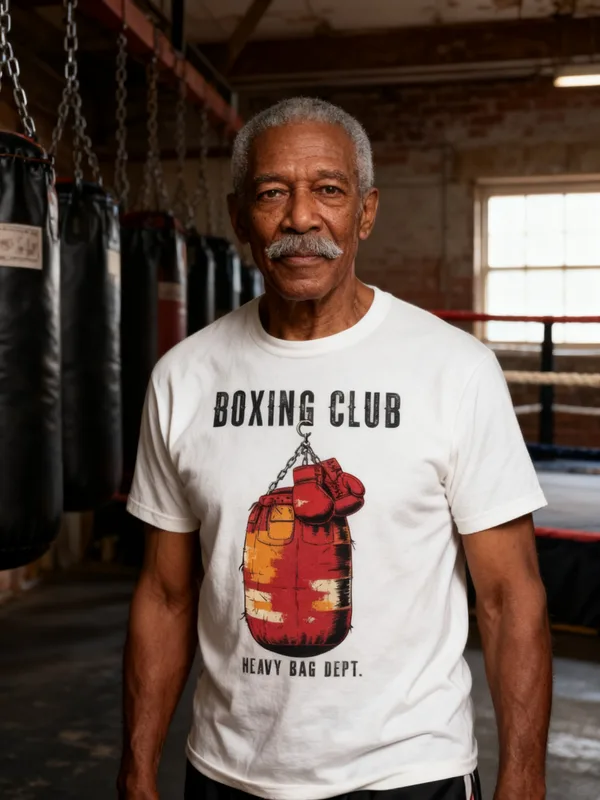
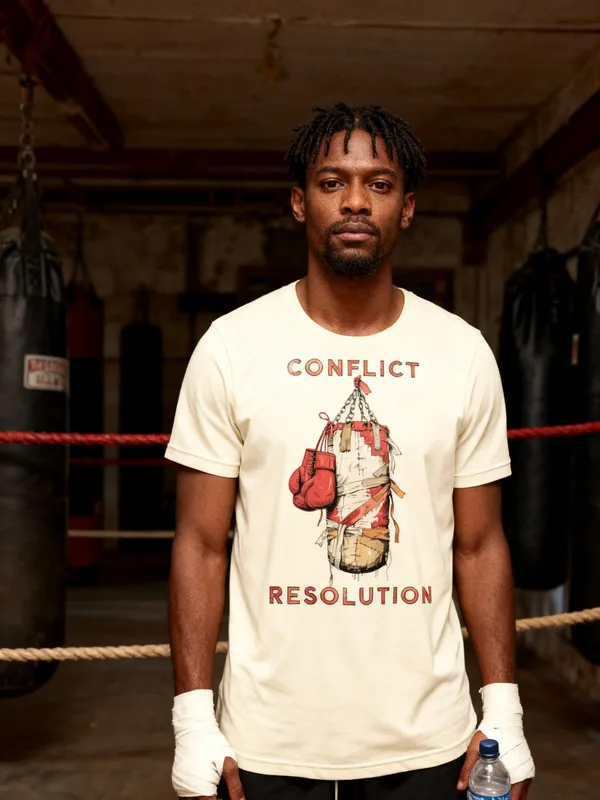
[B] redo 165 -> review (all men's redos 153-158, 163-165 done)

diff --git a/docs/intake-log.md b/docs/intake-log.md
@@ -1,3 +1,4 @@
+2026-10-16 18:41 UTC — [B] REVIEW #165 (redo): in-place redo of the ACTIVE product: new Recraft art (Conflict Resolution, try 1), single original-ink file for all 4 light colors, 30 variants re-syncing, new mockups + variant images + cover (#235, 3 images per call, best kept), copy unchanged (still accurate).
 2026-10-16 18:35 UTC — [D] Director run 7: 27 REVIEW items. LIVE (ACTIVE + Online Store + Headless, audit --handle PASS): #146 Define Naughty tee, #148 Jolly-ish, #189 Vintage Santa hoodie, #200 Penguins hoodie, #177 Opening Day zip, #179 Kaiju Naps + #180 Mecha Mondays oversized, #181 Matcha cropped, #186 Slurp, #187 Low Battery, #188 Lake Life hoodies, embroidery pilot #192 #196 #197, men's redos #153 #154 #155 #156 #158 #163. REDO: #147 #178 #185 #150 #157 (covers: cup over words, sherpa hood, dropped word, redrawn print, braid over the first word), #198 (default font), #199 (steam reads as ?). Copy fixes: 146/189 production notes, 196 olive→leafy, 197 thread color; cover alts in covers.ts. Rulebook: R6.9 one extra cover attempt + overlap check, R4.8 pilot result, R7.5 funny/retro style tags, R11.6 built, R12.1 new-blank prices. Audit: embroidered hoodies may join embroidered-sweatshirts; -camo-hoodie and -half-zip prices; half-zip-pullovers allowed. Collections: retro-graphic-tees, funny-graphic-tees (65 tees tagged), camo-hoodies, zip-up-hoodies-for-men, oversized-hoodies-for-men, gym-hoodies-for-men, half-zip-pullovers, graphic-hoodies-for-women. Queue: lane A 14 READY (208-221), lane B 17 READY (193-195 unparked, 222-235). Registry #279-309 reserved. Inbox: style collections + men's scan done; cold-weather sweep partly done (rest listed OPEN). Telegram: 2 pings. Lock released.
 2026-10-16 18:30 UTC — [A] Run summary: fal unlocked, built 22 items. REVIEW: #140 (redo), #146, #147, #148, #189 (redo), #190, #191, #200. DRAFTS awaiting Printful sync (Printful allows ~10 variant links/min across all lanes; set REVIEW only when synced = count; command in each item log, 'setfile'): #144 redraw (57, keep BUILDING, old art still on file), #149 (36), #150 (47), #151 (30), #161 (47), #162 (30), #169 (47), #170 (36), #171 (30), #172 (36), #201-#207 (12 each). Next lane A run: finish those syncs first (python3 scripts/pf-sync.py status <id>), then flip to REVIEW. PARKED: #159/#160 (handles already live; see log). Cover flags for the director: #150, #151 lettering garbled in photo, #205 man shows no hood. Helpers documented in docs/builder-tools.md. Lock released.
 2026-10-16 18:37 UTC — [B] REVIEW #164 (redo): in-place redo of the ACTIVE product: new Recraft art (Peaked in 1898, try 1), single original-ink file for all 4 light colors (this product has no dark colors), 30 variants re-syncing, new mockups + variant images + cover (#234; the cover took 3 prompts, using the Printful mockup as the reference photo with 3 images per call fixed the garbled lettering), copy updated (no headband in the new art).

diff --git a/docs/pipeline/165-gym-heavy-bag-dept-redo.md b/docs/pipeline/165-gym-heavy-bag-dept-redo.md
@@ -1,4 +1,4 @@
-status: BUILDING [B] 2026-10-16
+status: REVIEW
 reason: paused for cold-weather, resume after (Sam, 2026-10-16: evergreen tees wait until every cold-weather collection reaches 14, R11.5).
 lane: B
 type: redo
@@ -24,3 +24,4 @@ handle: mens-gym-heavy-bag-dept-graphic-tee
 - 2026-10-16 12:53 UTC [B]: run stopped by fal.ai lock (TOP_UP): file hosting + cover generation blocked. Nothing changed on the live product. Note: Shopify draft products for 167 (15360931430704) and 168 (15360933036336) already exist with copy and no media; Printful sync products 482163651 / 482163786 exist (168 variants unmapped, needs catalog variant mapping).
 - 2026-10-16 14:26 UTC director: PARKED for the cold-weather push (R11.5).
 - 2026-10-16 16:39 UTC Claude: Sam wants every weak men's shirt redone now; READY for lane B alongside cold-weather.
+- 2026-10-16 18:41 UTC [B]: REDO done: in-place redo of the ACTIVE product: new Recraft art (Conflict Resolution, try 1), single original-ink file for all 4 light colors, 30 variants re-syncing, new mockups + variant images + cover (#235, 3 images per call, best kept), copy unchanged (still accurate). Review sheet docs/review/165.jpg.
